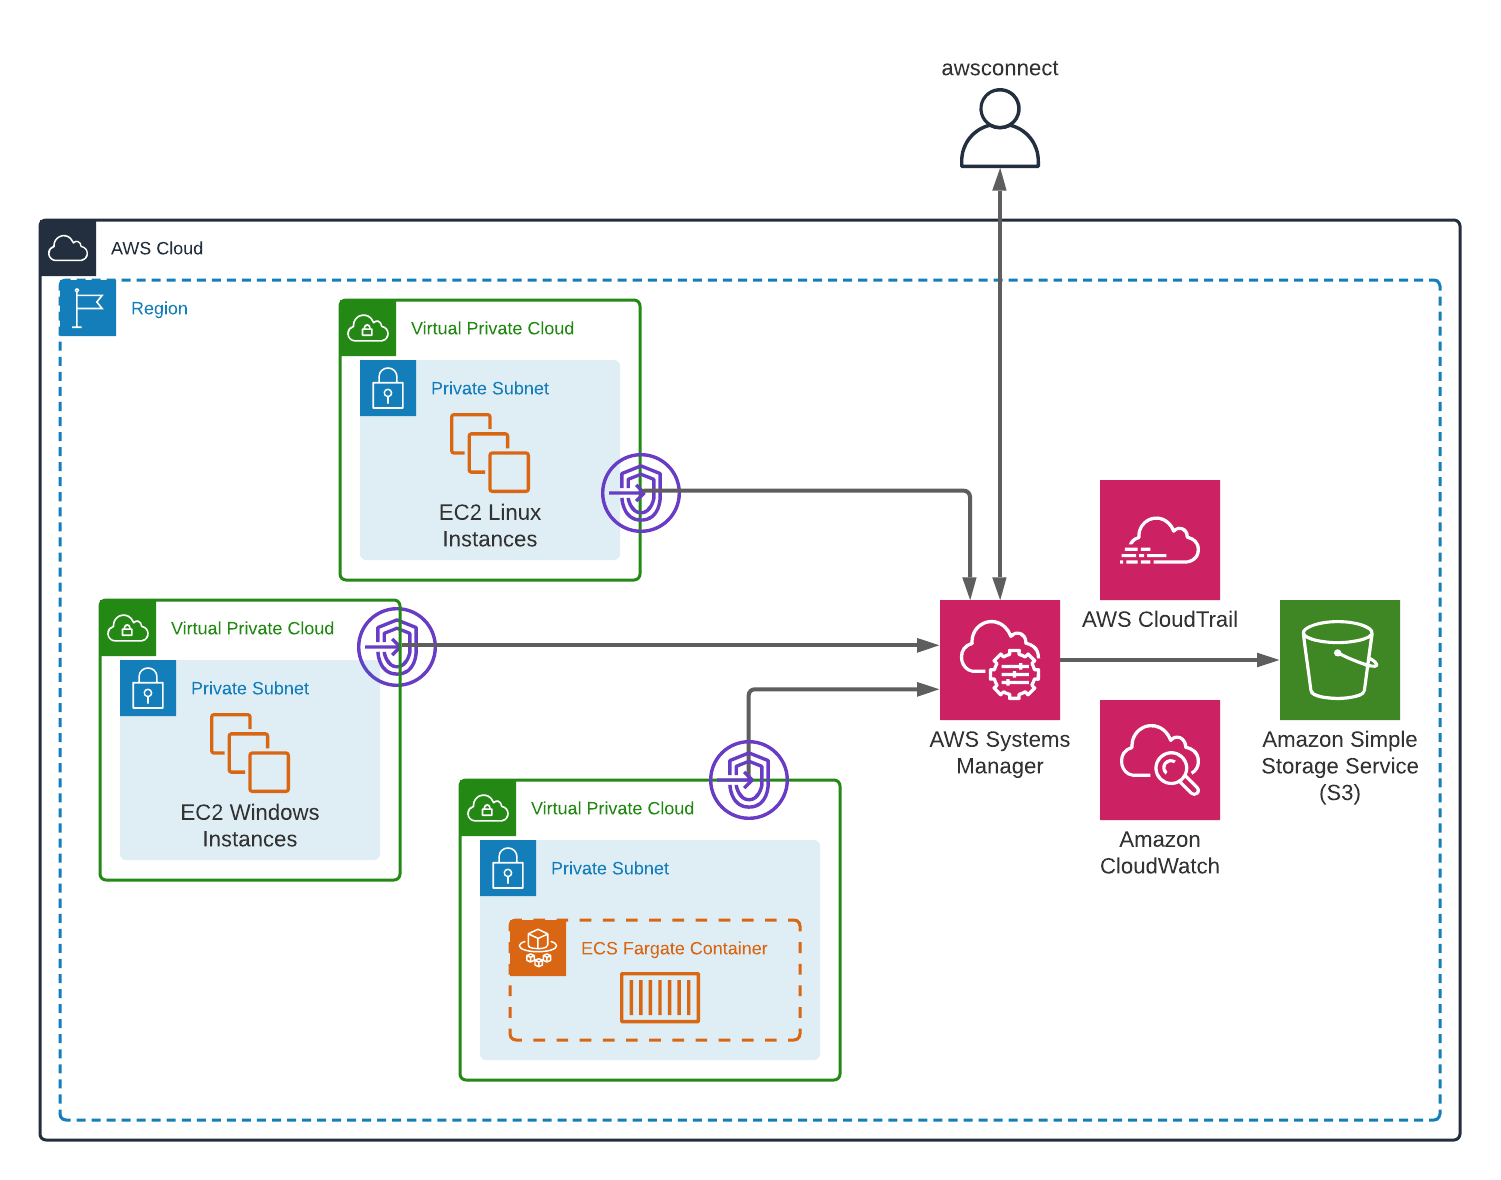
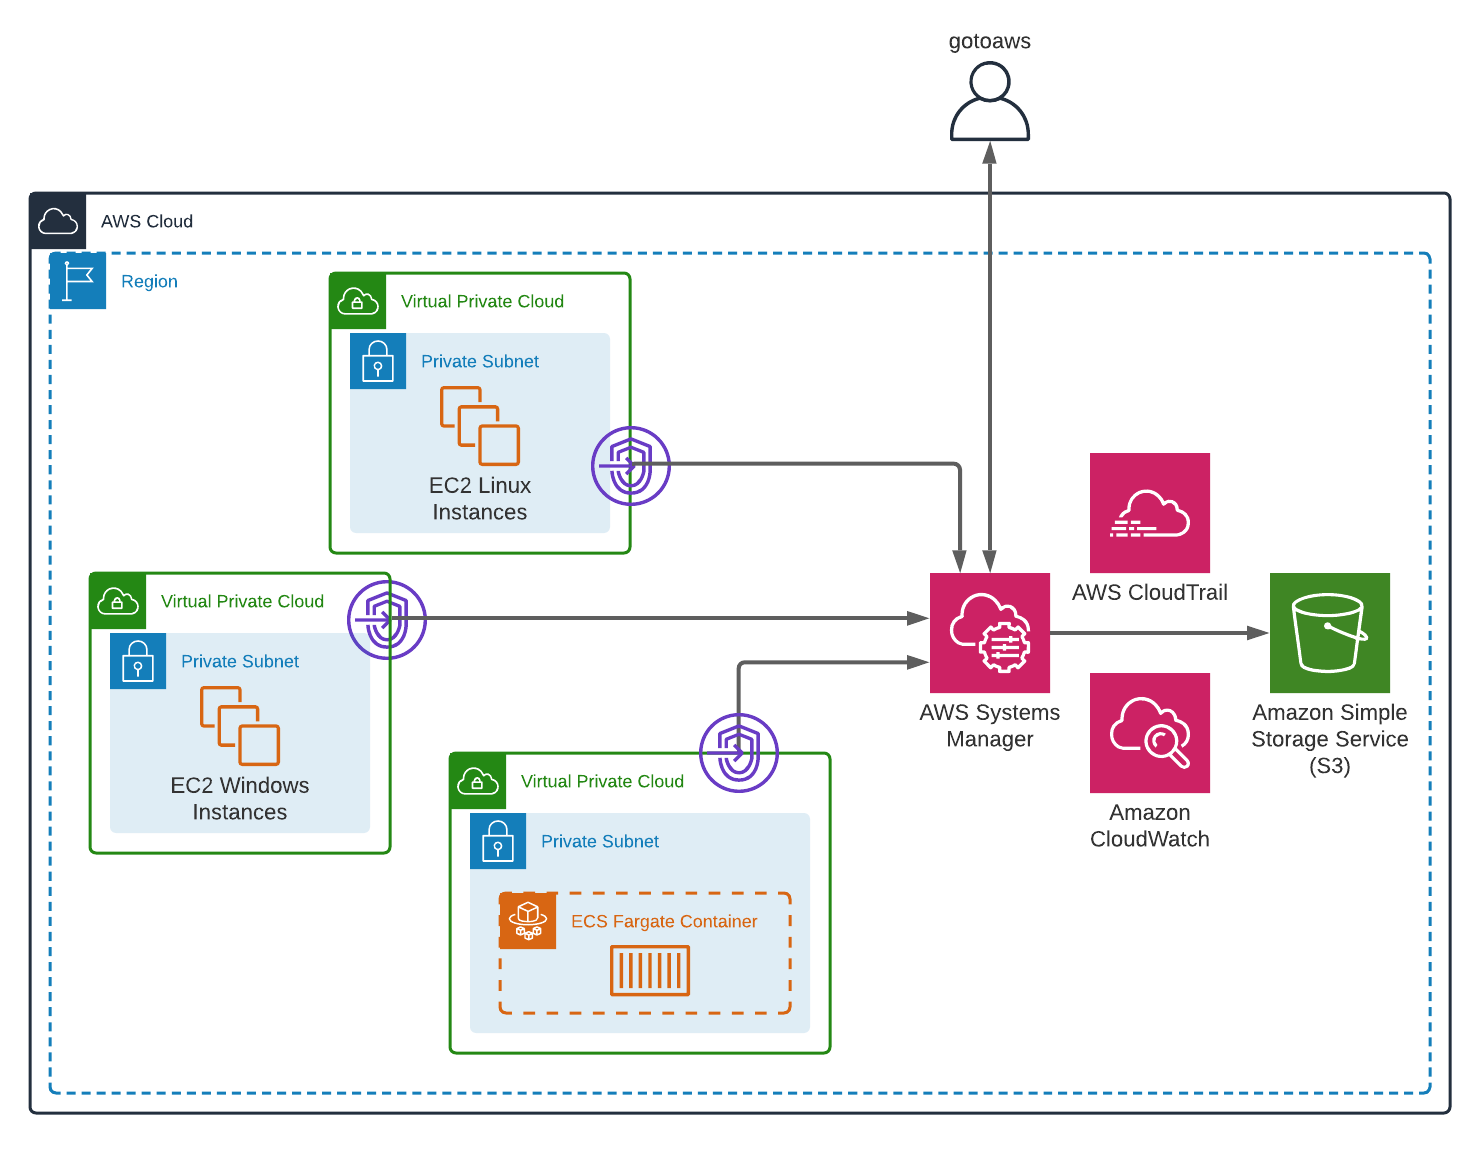
Rename to gotoaws

Changed region(s): [[0.0, 0.0304, 0.9946, 0.9739]]

diff --git a/cmd/root.go b/cmd/root.go
@@ -6,7 +6,7 @@ import (
 	"strings"
 	"time"
 
-	"github.com/hupe1980/awsconnect/internal"
+	"github.com/hupe1980/gotoaws/internal"
 	"github.com/manifoldco/promptui"
 	"github.com/spf13/cobra"
 )
@@ -28,10 +28,10 @@ type rootOptions struct {
 func newRootCmd(version string) *cobra.Command {
 	opts := &rootOptions{}
 	cmd := &cobra.Command{
-		Use:     "awsconnect",
+		Use:     "gotoaws",
 		Version: version,
-		Short:   "awsconnect is an interactive CLI tool that you can use to connect to your AWS resources (EC2, ECS container)",
-		Long: `awsconnect is an interactive CLI tool 
+		Short:   "gotoaws is an interactive CLI tool that you can use to connect to your AWS resources (EC2, ECS container)",
+		Long: `gotoaws is an interactive CLI tool 
 that you can use to connect to your AWS resources (EC2, ECS container) 
 using the AWS Systems Manager Session Manager. 
 It provides secure and auditable resource management without the need to open inbound ports, 

diff --git a/cmd/scp.go b/cmd/scp.go
@@ -2,7 +2,7 @@ package cmd
 
 import (
 	"github.com/aws/aws-sdk-go-v2/service/ssm"
-	"github.com/hupe1980/awsconnect/internal"
+	"github.com/hupe1980/gotoaws/internal"
 	"github.com/spf13/cobra"
 )
 
@@ -19,7 +19,7 @@ func newSCPCmd() *cobra.Command {
 	cmd := &cobra.Command{
 		Use:           "scp [source(s)] [target]",
 		Short:         "SCP over Session Manager",
-		Example:       "awsconnect ec2 scp file.txt /opt/ -t myserver -i key.pem",
+		Example:       "gotoaws ec2 scp file.txt /opt/ -t myserver -i key.pem",
 		SilenceUsage:  true,
 		SilenceErrors: true,
 		Args:          cobra.MinimumNArgs(2),

diff --git a/cmd/fwd.go b/cmd/fwd.go
@@ -2,7 +2,7 @@ package cmd
 
 import (
 	"github.com/aws/aws-sdk-go-v2/service/ssm"
-	"github.com/hupe1980/awsconnect/internal"
+	"github.com/hupe1980/gotoaws/internal"
 	"github.com/spf13/cobra"
 )
 
@@ -17,7 +17,7 @@ func newFwdCmd() *cobra.Command {
 	cmd := &cobra.Command{
 		Use:           "fwd",
 		Short:         "Port forwarding",
-		Example:       "awsconnect fwd run -t myserver -l 8080 -r 8080",
+		Example:       "gotoaws fwd run -t myserver -l 8080 -r 8080",
 		SilenceUsage:  true,
 		SilenceErrors: true,
 		RunE: func(cmd *cobra.Command, args []string) error {

diff --git a/cmd/ssh.go b/cmd/ssh.go
@@ -4,7 +4,7 @@ import (
 	"strings"
 
 	"github.com/aws/aws-sdk-go-v2/service/ssm"
-	"github.com/hupe1980/awsconnect/internal"
+	"github.com/hupe1980/gotoaws/internal"
 	"github.com/spf13/cobra"
 )
 
@@ -21,7 +21,7 @@ func newSSHCmd() *cobra.Command {
 	cmd := &cobra.Command{
 		Use:           "ssh [command]",
 		Short:         "SSH over Session Manager",
-		Example:       "awsconnect ssh -t myserver -i key.pem",
+		Example:       "gotoaws ssh -t myserver -i key.pem",
 		SilenceUsage:  true,
 		SilenceErrors: true,
 		RunE: func(cmd *cobra.Command, args []string) error {

diff --git a/cmd/exec.go b/cmd/exec.go
@@ -2,7 +2,7 @@ package cmd
 
 import (
 	"github.com/aws/aws-sdk-go-v2/service/ecs"
-	"github.com/hupe1980/awsconnect/internal"
+	"github.com/hupe1980/gotoaws/internal"
 	"github.com/spf13/cobra"
 )
 
@@ -20,7 +20,7 @@ func newExecCmd() *cobra.Command {
 		Short:         "Exec into container",
 		SilenceUsage:  true,
 		SilenceErrors: true,
-		Example:       "awsconnect ecs exec --cluster demo-cluster",
+		Example:       "gotoaws ecs exec --cluster demo-cluster",
 		RunE: func(cmd *cobra.Command, args []string) error {
 			cfg, err := newConfig(cmd)
 			if err != nil {

diff --git a/cmd/session.go b/cmd/session.go
@@ -2,7 +2,7 @@ package cmd
 
 import (
 	"github.com/aws/aws-sdk-go-v2/service/ssm"
-	"github.com/hupe1980/awsconnect/internal"
+	"github.com/hupe1980/gotoaws/internal"
 	"github.com/spf13/cobra"
 )
 
@@ -15,7 +15,7 @@ func newSessionCmd() *cobra.Command {
 	cmd := &cobra.Command{
 		Use:           "session",
 		Short:         "Start a session",
-		Example:       "awsconnect ec2 session -t myserver",
+		Example:       "gotoaws ec2 session -t myserver",
 		SilenceUsage:  true,
 		SilenceErrors: true,
 		RunE: func(cmd *cobra.Command, args []string) error {

diff --git a/cmd/run.go b/cmd/run.go
@@ -3,7 +3,7 @@ package cmd
 import (
 	"fmt"
 
-	"github.com/hupe1980/awsconnect/internal"
+	"github.com/hupe1980/gotoaws/internal"
 	"github.com/spf13/cobra"
 )
 
@@ -17,7 +17,7 @@ func newRunCmd() *cobra.Command {
 	cmd := &cobra.Command{
 		Use:           "run",
 		Short:         "Run commands",
-		Example:       "awsconnect ec2 run -t myserver -c 'cat /etc/passwd'",
+		Example:       "gotoaws ec2 run -t myserver -c 'cat /etc/passwd'",
 		SilenceUsage:  true,
 		SilenceErrors: true,
 		RunE: func(cmd *cobra.Command, args []string) error {

diff --git a/cmd/completion.go b/cmd/completion.go
@@ -5,7 +5,7 @@ import "github.com/spf13/cobra"
 func newCompletionCmd() *cobra.Command {
 	cmd := &cobra.Command{
 		Use:                   "completion [bash|zsh|fish]",
-		Short:                 "Prints shell autocompletion scripts for awsconnect",
+		Short:                 "Prints shell autocompletion scripts for gotoaws",
 		SilenceUsage:          true,
 		DisableFlagsInUseLine: true,
 		ValidArgs:             []string{"bash", "zsh", "fish"},

diff --git a/cmd/root_test.go b/cmd/root_test.go
@@ -21,5 +21,5 @@ func TestRootCmdVersion(t *testing.T) {
 	cmd.SetOut(&b)
 	cmd.SetArgs([]string{"-v"})
 	require.NoError(t, cmd.Execute())
-	require.Equal(t, "awsconnect version 1.2.3\n", b.String())
+	require.Equal(t, "gotoaws version 1.2.3\n", b.String())
 }

diff --git a/main.go b/main.go
@@ -1,7 +1,7 @@
 package main
 
 import (
-	"github.com/hupe1980/awsconnect/cmd"
+	"github.com/hupe1980/gotoaws/cmd"
 )
 
 const (

diff --git a/README.md b/README.md
@@ -1,5 +1,5 @@
-# awsconnect
-awsconnect is an interactive CLI tool that you can use to connect to your AWS resources (EC2, ECS container) using the [AWS Systems Manager Session Manager](https://docs.aws.amazon.com/systems-manager/latest/userguide/session-manager.html). It provides secure and auditable resource management without the need to open inbound ports, maintain bastion hosts, or manage SSH keys.
+# gotoaws
+gotoaws is an interactive CLI tool that you can use to connect to your AWS resources (EC2, ECS container) using the [AWS Systems Manager Session Manager](https://docs.aws.amazon.com/systems-manager/latest/userguide/session-manager.html). It provides secure and auditable resource management without the need to open inbound ports, maintain bastion hosts, or manage SSH keys.
 
 ![summry](summary.png)
 
@@ -14,49 +14,49 @@ You can install the pre-compiled binary in several different ways
 
 ### homebrew tap:
 ```bash
-brew tap hupe1980/awsconnect
-brew install awsconnect
+brew tap hupe1980/gotoaws
+brew install gotoaws
 ```
 
 ### scoop:
 ```bash
-scoop bucket add awsconnect https://github.com/hupe1980/awsconnect-bucket.git
-scoop install awsconnect
+scoop bucket add gotoaws https://github.com/hupe1980/gotoaws-bucket.git
+scoop install gotoaws
 ```
 
 ### deb/rpm/apk:
 
-Download the .deb, .rpm or .apk from the [releases page](https://github.com/hupe1980/awsconnect/releases) and install them with the appropriate tools.
+Download the .deb, .rpm or .apk from the [releases page](https://github.com/hupe1980/gotoaws/releases) and install them with the appropriate tools.
 
 ### manually:
-Download the pre-compiled binaries from the [releases page](https://github.com/hupe1980/awsconnect/releases) and copy to the desired location.
+Download the pre-compiled binaries from the [releases page](https://github.com/hupe1980/gotoaws/releases) and copy to the desired location.
 
 ## How to use
 ```
 Usage:
-  awsconnect [command]
+  gotoaws [command]
 
 Available Commands:
-  completion  Prints shell autocompletion scripts for awsconnect
+  completion  Prints shell autocompletion scripts for gotoaws
   ec2         Connect to ec2
   ecs         Connect to ecs
   help        Help about any command
 
 Flags:
-  -h, --help               help for awsconnect
+  -h, --help               help for gotoaws
       --profile string     AWS profile (optional) (default "default")
       --region string      AWS region (optional)
       --timeout duration   timeout for network requests (default 15s)
-  -v, --version            version for awsconnect
+  -v, --version            version for gotoaws
 
-Use "awsconnect [command] --help" for more information about a command.
+Use "gotoaws [command] --help" for more information about a command.
 ```
 
 ## EC2
 You can connect to your instances by name, ID, DNS, IP or select an instance from a list.
 ```
 Usage:
-  awsconnect ec2 [command]
+  gotoaws ec2 [command]
 
 Available Commands:
   fwd         Port forwarding
@@ -73,15 +73,15 @@ Global Flags:
       --region string      AWS region (optional)
       --timeout duration   timeout for network requests (default 15s)
 
-Use "awsconnect ec2 [command] --help" for more information about a command.
+Use "gotoaws ec2 [command] --help" for more information about a command.
 ```
 #### Start a session
 ```
 Usage:
-  awsconnect ec2 session [flags]
+  gotoaws ec2 session [flags]
 
 Examples:
-awsconnect ec2 session -t myserver
+gotoaws ec2 session -t myserver
 
 Flags:
   -h, --help            help for session
@@ -95,10 +95,10 @@ Global Flags:
 #### Port forwarding
 ```
 Usage:
-  awsconnect ec2 fwd [flags]
+  gotoaws ec2 fwd [flags]
 
 Examples:
-awsconnect fwd run -t myserver -l 8080 -r 8080
+gotoaws fwd run -t myserver -l 8080 -r 8080
 
 Flags:
   -h, --help            help for fwd
@@ -115,10 +115,10 @@ Global Flags:
 #### Run commands
 ```
 Usage:
-  awsconnect ec2 run [flags]
+  gotoaws ec2 run [flags]
 
 Examples:
-awsconnect ec2 run -t myserver -c 'cat /etc/passwd'
+gotoaws ec2 run -t myserver -c 'cat /etc/passwd'
 
 Flags:
   -c, --cmd string      command to exceute (required)
@@ -134,10 +134,10 @@ Global Flags:
 #### SSH over Session Manager
 ```
 Usage:
-  awsconnect ec2 ssh [command] [flags]
+  gotoaws ec2 ssh [command] [flags]
 
 Examples:
-awsconnect ssh -t myserver -i key.pem
+gotoaws ssh -t myserver -i key.pem
 
 Flags:
   -h, --help              help for ssh
@@ -156,10 +156,10 @@ Global Flags:
 #### SCP over Session Manager
 ```
 Usage:
-  awsconnect ec2 scp [source(s)] [target] [flags]
+  gotoaws ec2 scp [source(s)] [target] [flags]
 
 Examples:
-awsconnect ec2 scp file.txt /opt/ -t myserver -i key.pem
+gotoaws ec2 scp file.txt /opt/ -t myserver -i key.pem
 
 Flags:
   -h, --help              help for scp
@@ -180,7 +180,7 @@ You can directly interact with containers without needing to first interact with
  
 ```
 Usage:
-  awsconnect ecs [command]
+  gotoaws ecs [command]
 
 Available Commands:
   exec        Exec into container
@@ -193,16 +193,16 @@ Global Flags:
       --region string      AWS region (optional)
       --timeout duration   timeout for network requests (default 15s)
 
-Use "awsconnect ecs [command] --help" for more information about a command.
+Use "gotoaws ecs [command] --help" for more information about a command.
 ```
 
 ### Exec into container
 ```
 Usage:
-  awsconnect ecs exec [flags]
+  gotoaws ecs exec [flags]
 
 Examples:
-awsconnect ecs exec --cluster demo-cluster
+gotoaws ecs exec --cluster demo-cluster
 
 Flags:
       --cluster string     arn or name of the cluster (optional) (default "default")
